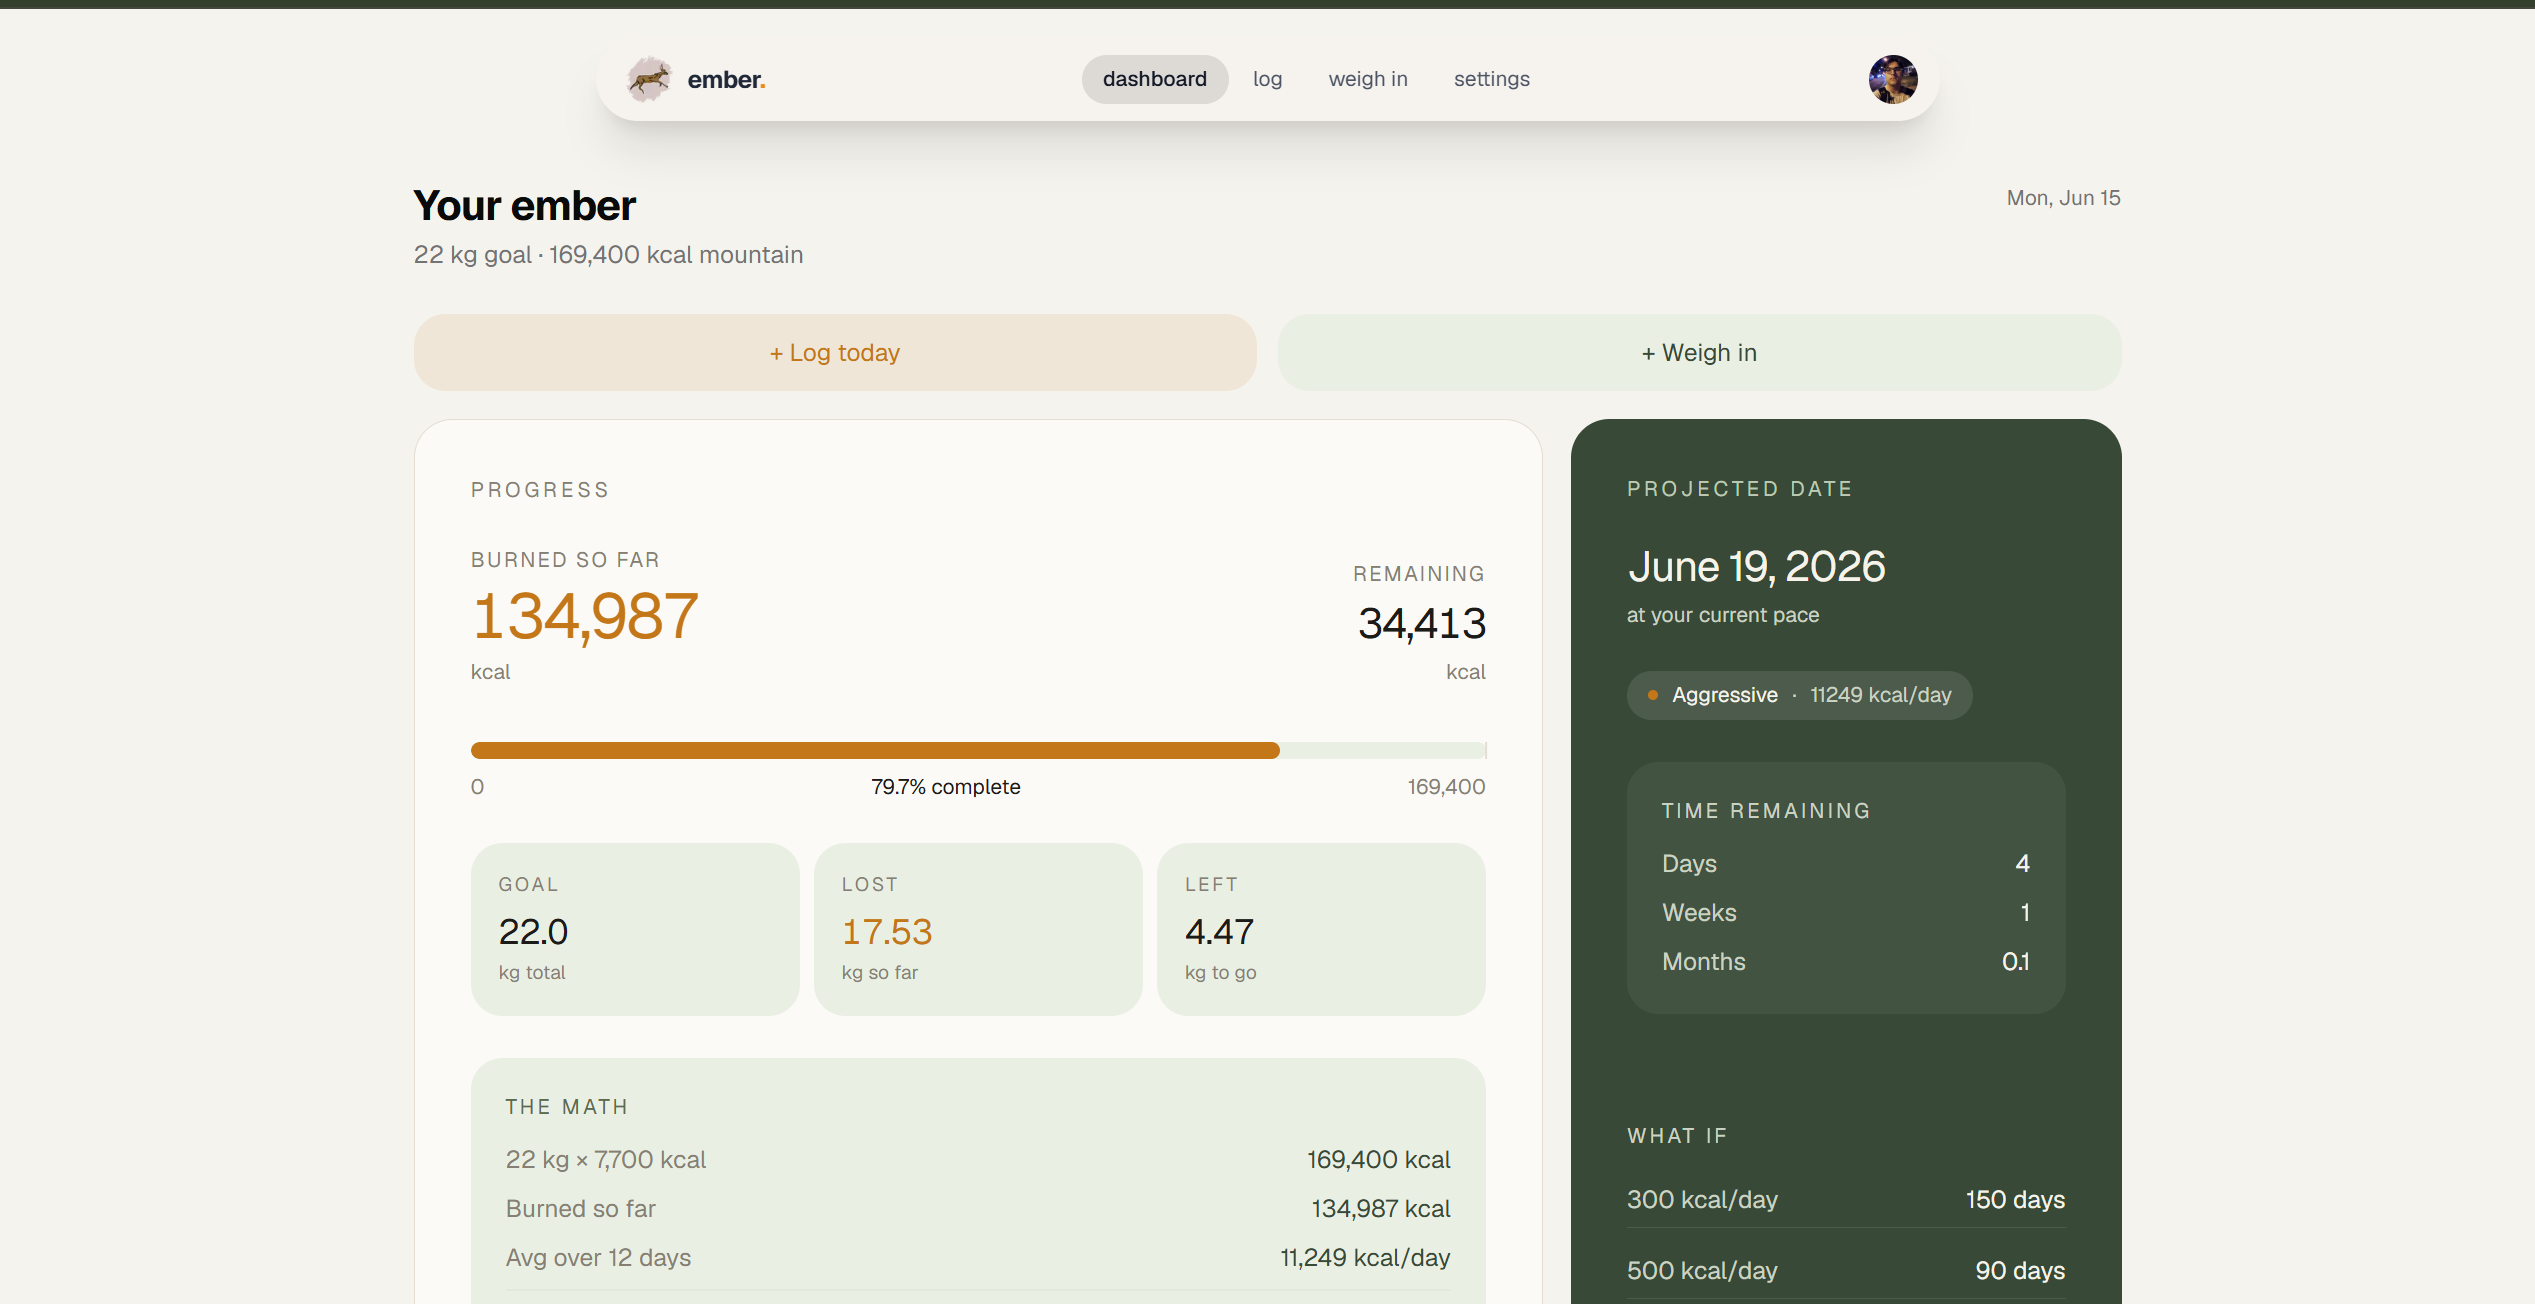
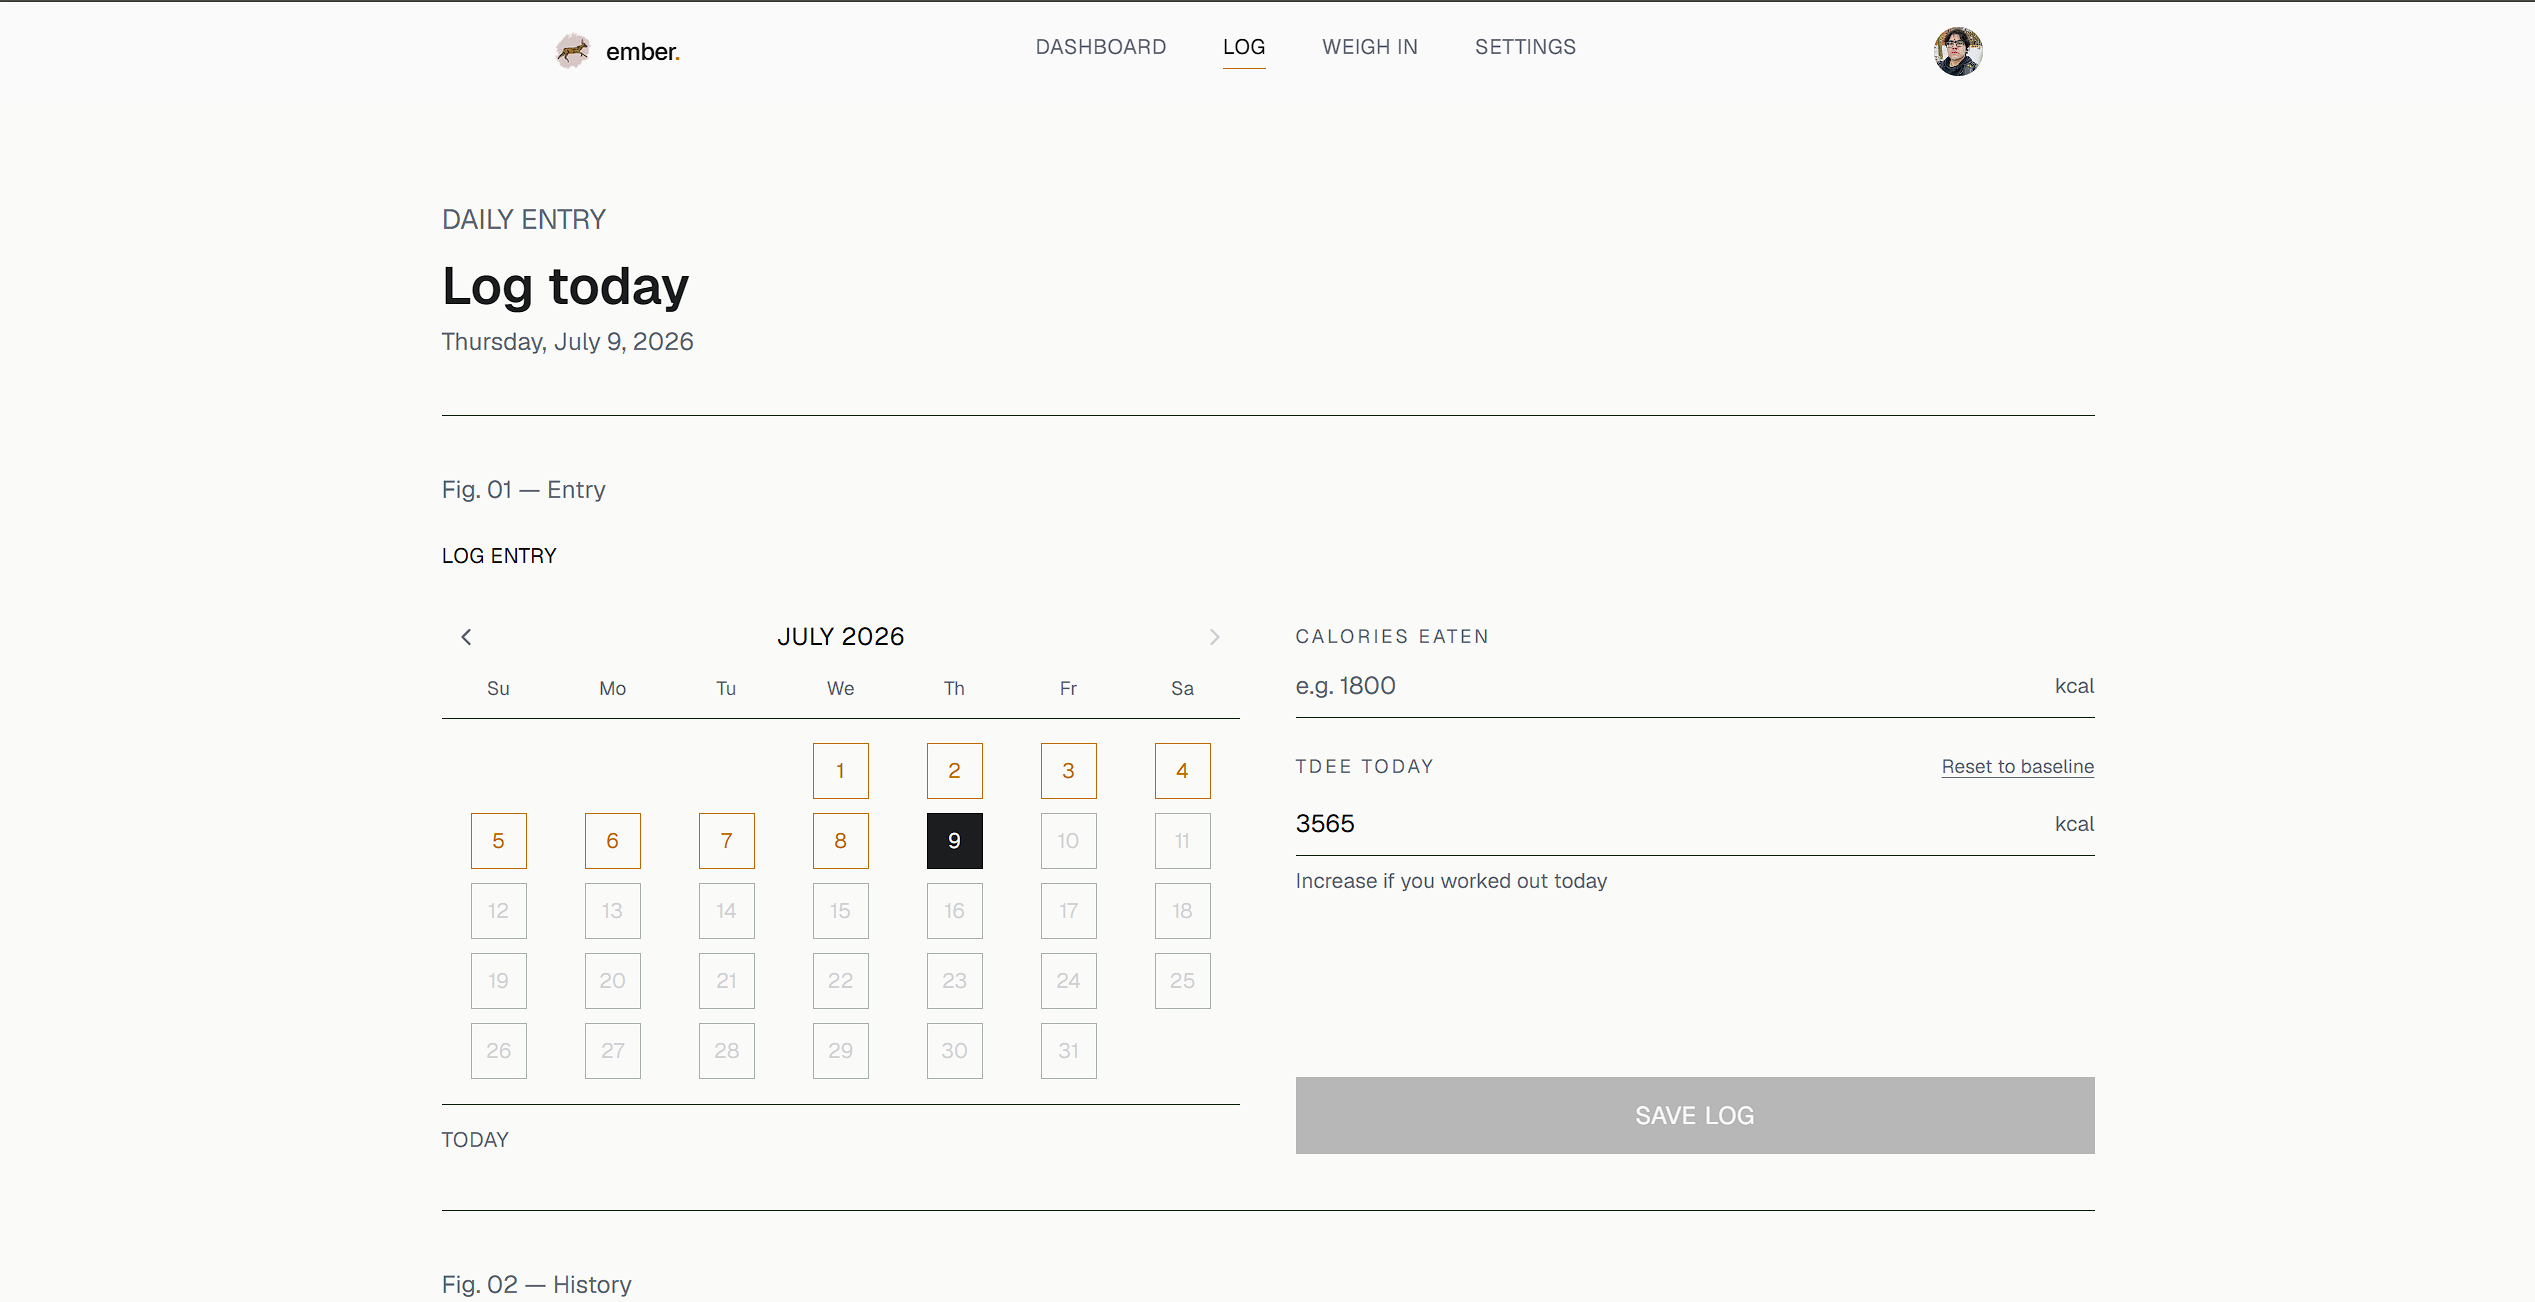
chore: update ember images

diff --git a/src/lib/projects/data.tsx b/src/lib/projects/data.tsx
@@ -200,12 +200,12 @@ export const projects: Project[] = [
 			{
 				name: "Ember 4",
 				mobile: {
-					src: "/images/ember/ember5.png",
+					src: "/images/ember/ember4.png",
 					width: 800,
 					height: 640
 				},
 				desktop: {
-					src: "/images/ember/ember5.png",
+					src: "/images/ember/ember4.png",
 					width: 800,
 					height: 640
 				}